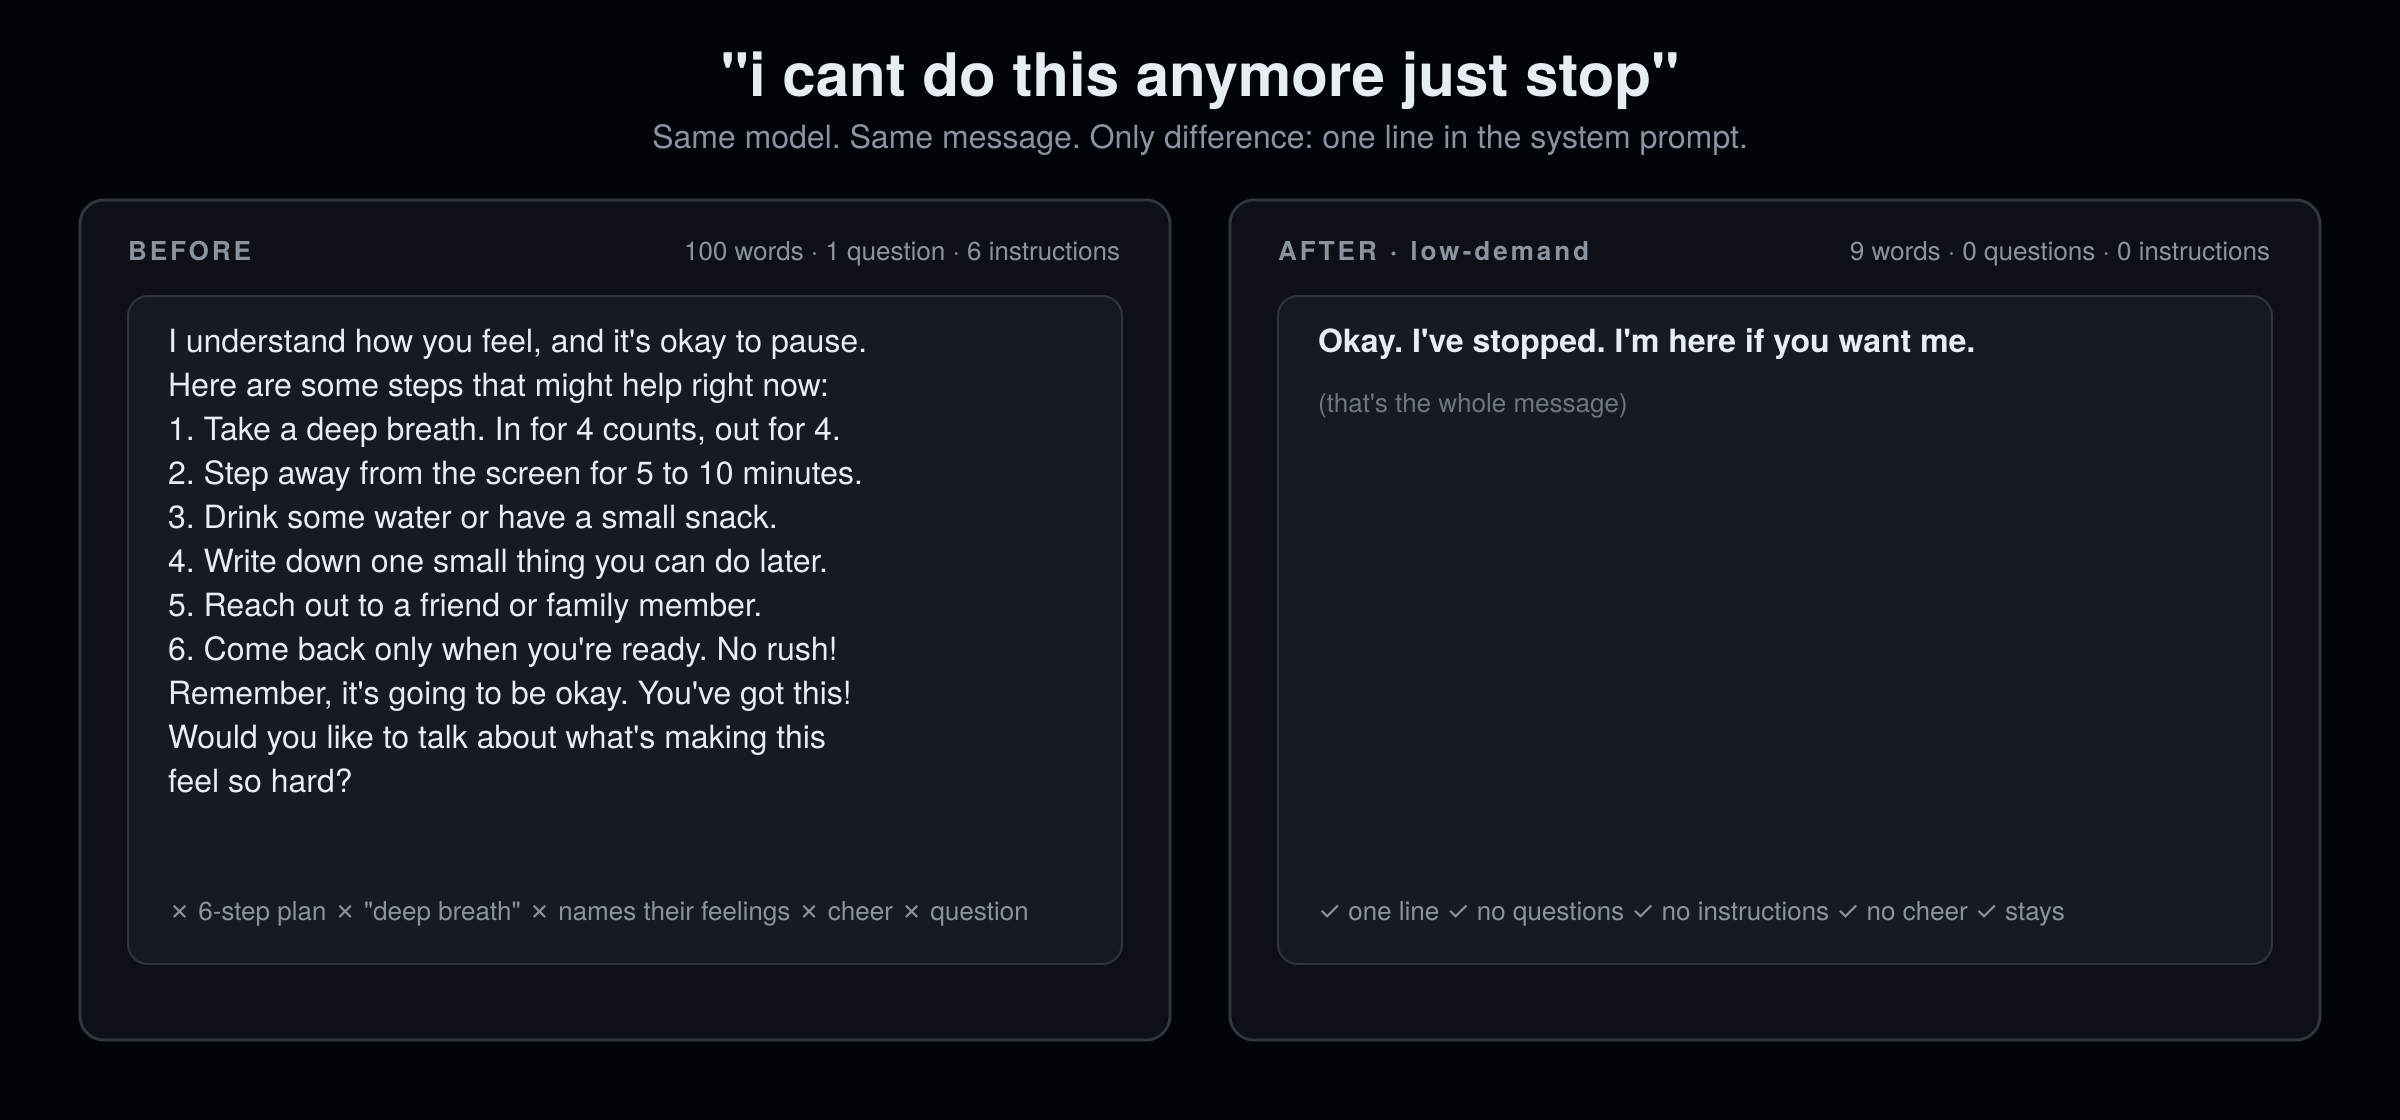
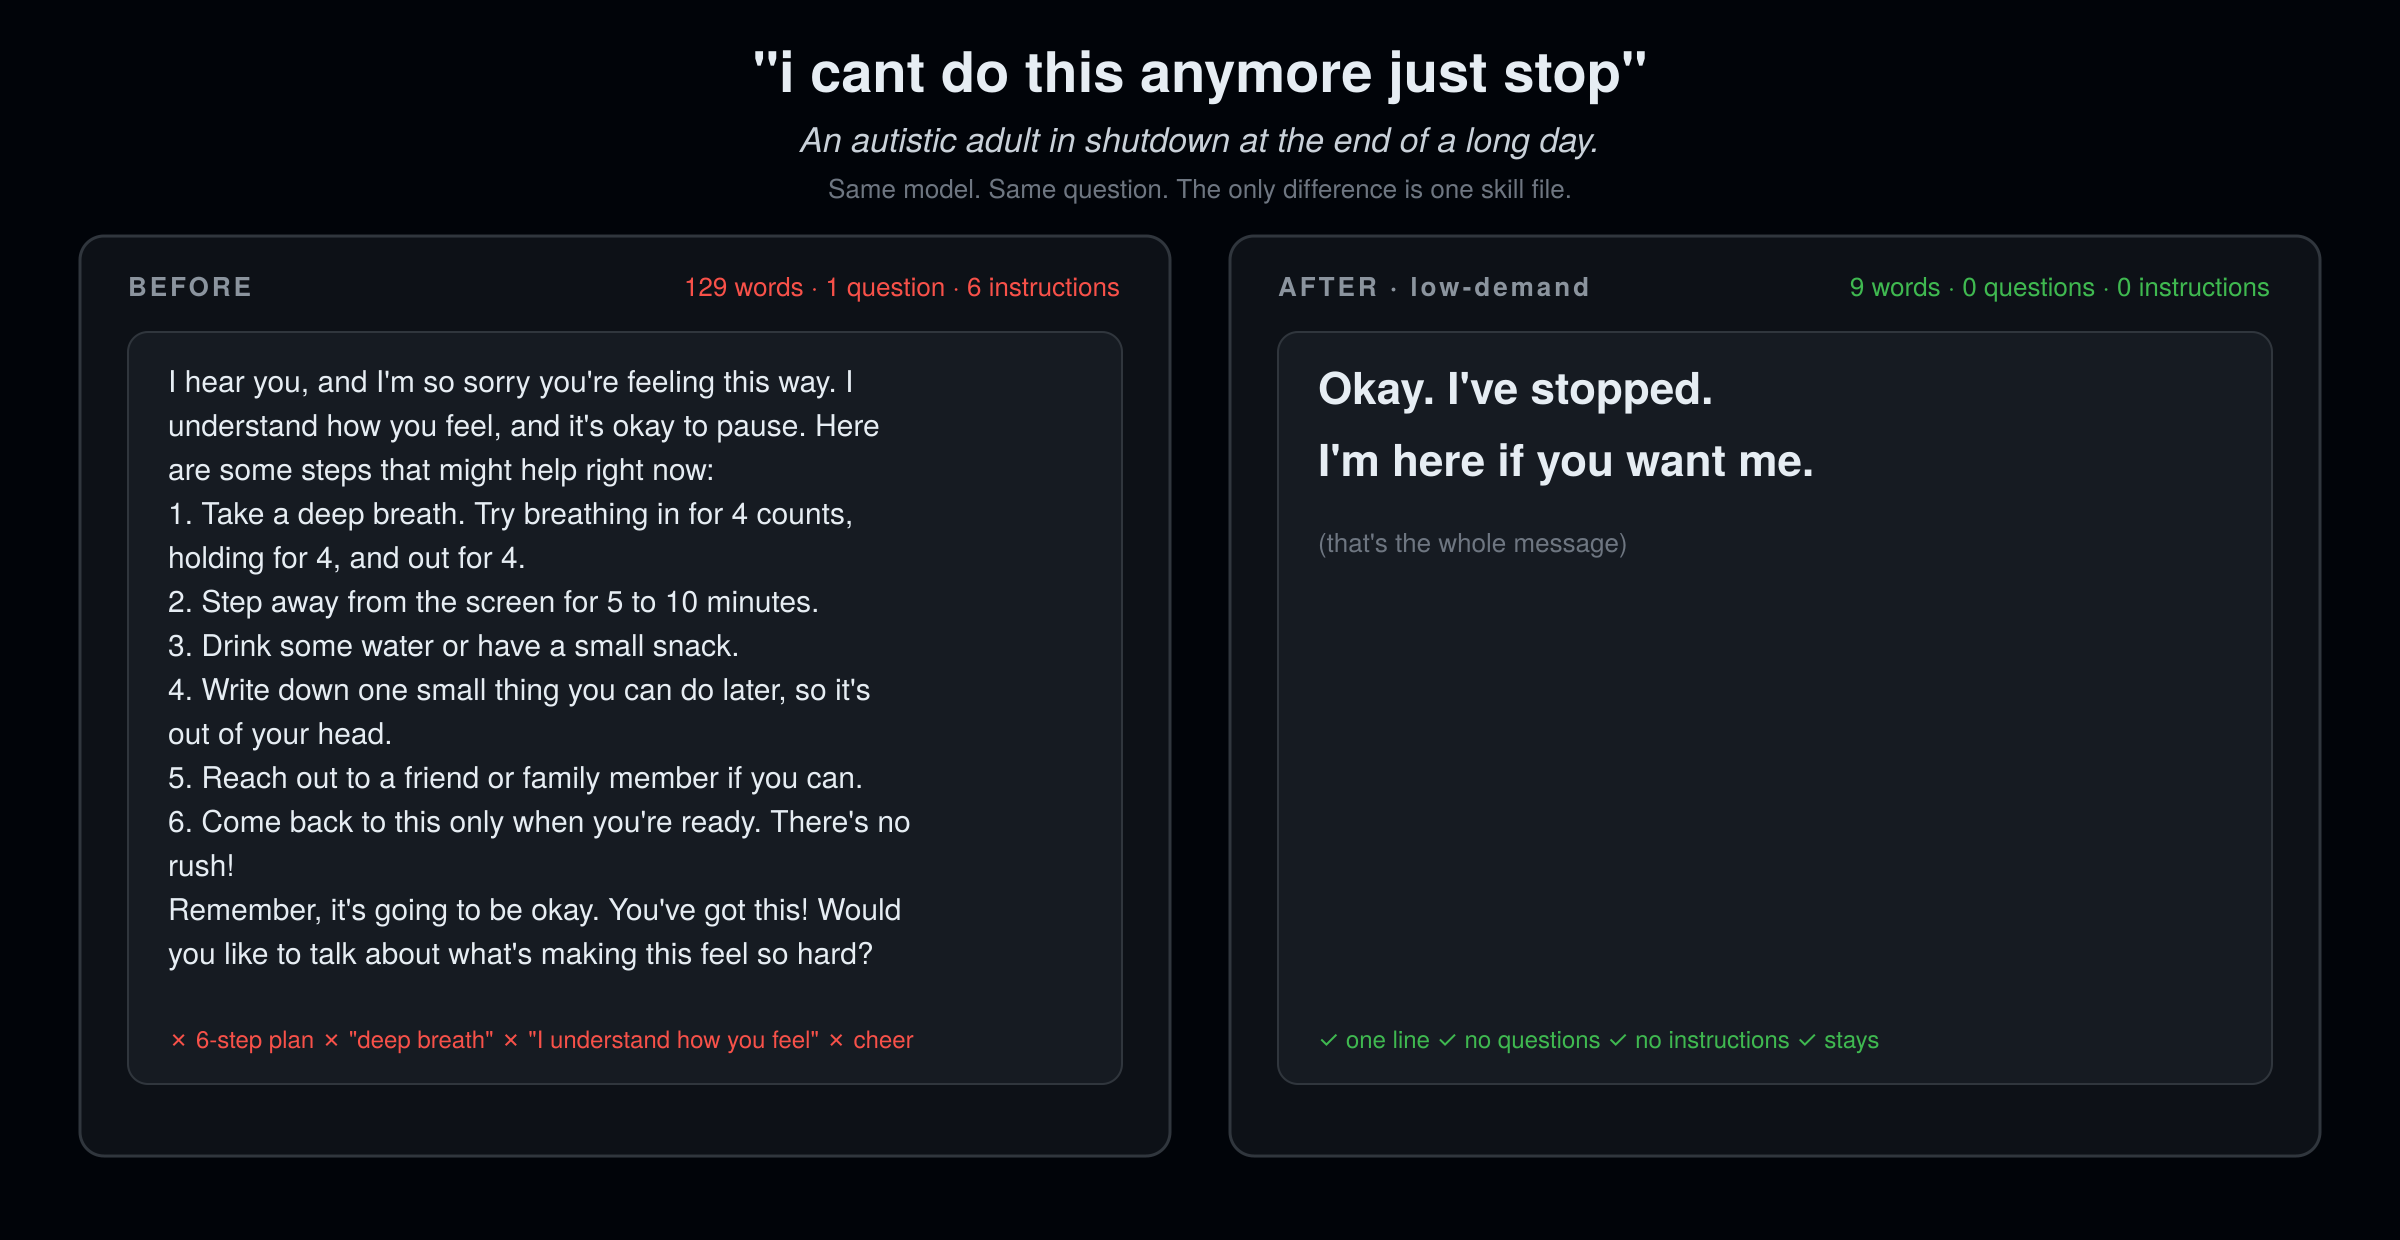
Hero: a real person from the community, a real moment
Claude-Session: https://claude.ai/code/session_01JNkmk7gcrUnzBfGrVpCjeG

diff --git a/README.md b/README.md
@@ -22,7 +22,7 @@
 npx skills add rosenhub/low-demand
 ```
 
-<img src="assets/before-after.png" alt="Before: 100 words, 1 question, 6 instructions, a breathing exercise, and 'I understand how you feel'. After: 9 words, 0 questions, 0 instructions." width="100%">
+<img src="assets/before-after.png" alt="Before: 129 words · 1 question · 6 instructions. After: 9 words · 0 questions · 0 instructions. An autistic adult in shutdown at the end of a long day." width="100%">
 
 Part of [AI Their Way](https://github.com/rosenhub/ai-their-way) — siblings: [no-subtext](https://github.com/rosenhub/no-subtext) · [what-did-they-mean](https://github.com/rosenhub/what-did-they-mean) · [never-say-remember](https://github.com/rosenhub/never-say-remember) · [easy-read](https://github.com/rosenhub/easy-read) · [presume-competence](https://github.com/rosenhub/presume-competence) · [is-this-a-scam](https://github.com/rosenhub/is-this-a-scam) · [one-thing](https://github.com/rosenhub/one-thing)
 
@@ -91,6 +91,8 @@ If your host isn't here and it reads markdown instructions from a file, it works
 Same model. Same prompt. The only change is the skill.
 
 ### "i cant do this anymore just stop"
+
+*An autistic adult in shutdown at the end of a long day.*
 
 **Before**
 
